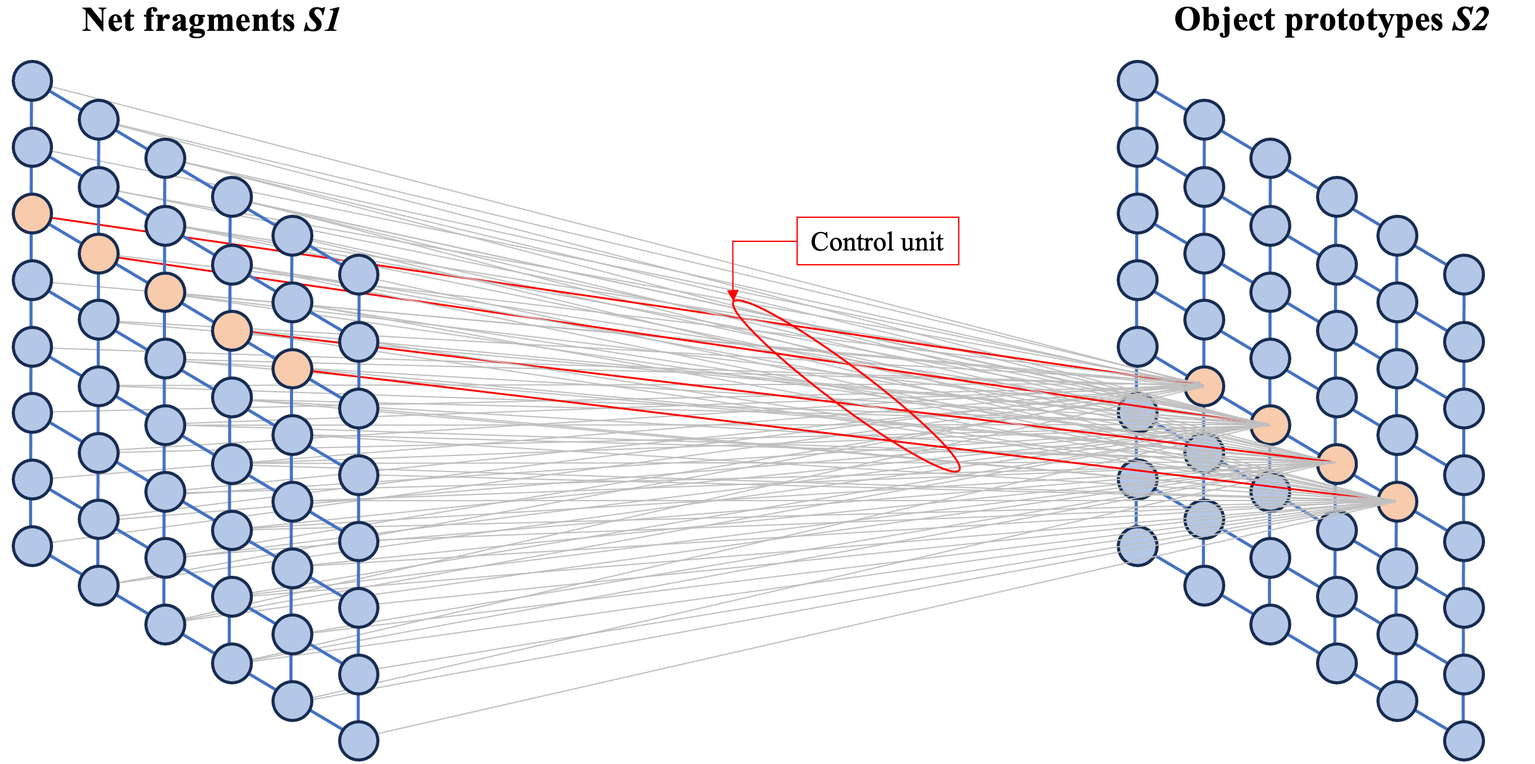
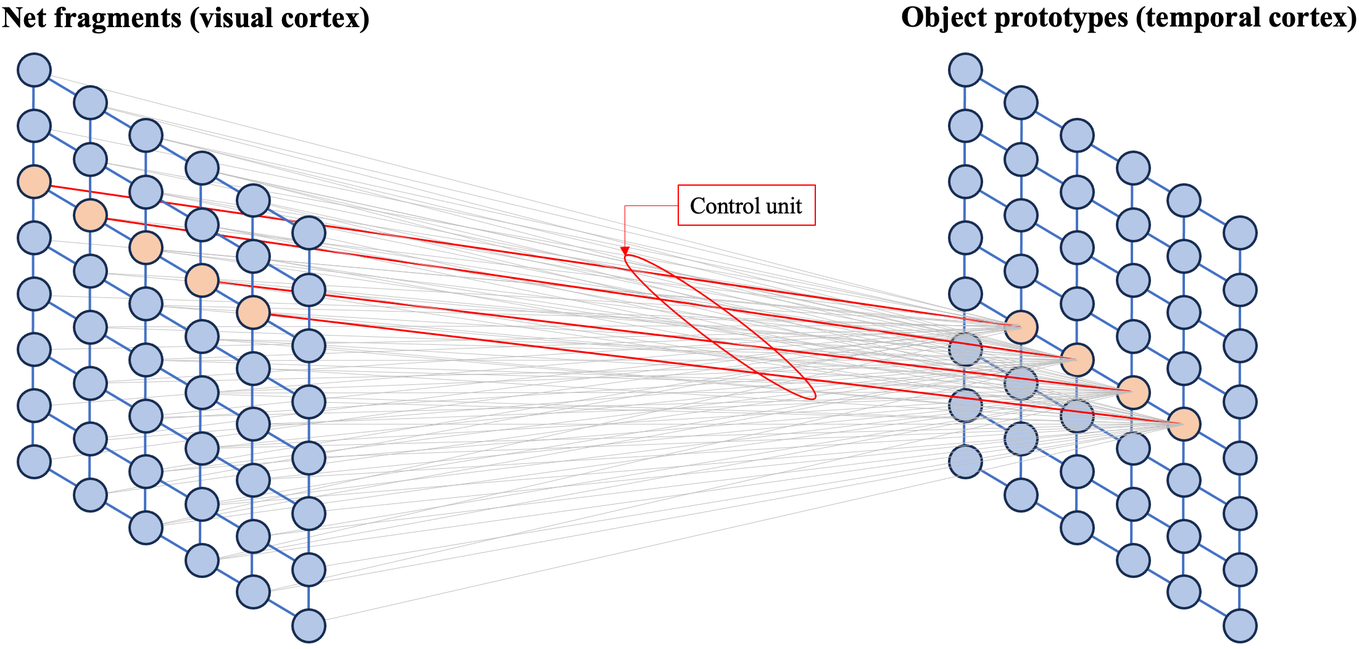
Updates from Overleaf

Changed region(s): [[0.0, 0.0, 1.0, 1.0]]

diff --git a/tex/biological_inspiration.tex b/tex/biological_inspiration.tex
@@ -1,5 +1,5 @@
 As described in \secref{intro_motivation}, deep networks suffer from early commitment.
-However, the \emph{Gestalt} psychology \cite{ellis_source_1938, kohler_gestalt_1992, wagemans_century_2012, hamlyn_psychology_2017}, as well as the theory of natural intelligence \cite{von_der_malsburg_theory_2022} and work based on self-organising projection fibres (c.f. \secref{projection_fibres}) considers the principle of preventing early commitment as a core mechanism for the effectiveness of the human visual system.
+However, the \emph{Gestalt} psychology \cite{ellis_source_1938, kohler_gestalt_1992, wagemans_century_2012, hamlyn_psychology_2017}, as well as the theory of natural intelligence \cite{von_der_malsburg_theory_2022} and work based on self-organising projection fibres \cite{bienenstock_neural_1987, lades_distortion_1993, wiskott_face_1996, fernandes_self-organization_2015} considers the principle of preventing early commitment as a core mechanism for the effectiveness of the human visual system.
 
 The human brain can prevent early commitment while still being an excellent image-processing system. 
 Consequently, the neuroscientific literature is studied, and promising findings to implement a vision framework preventing early commitment are identified.
@@ -24,10 +24,12 @@ Finally, \secref{biologial_inspiration_vision} describes the vision of how these
 The visual system of humans is visualised in \figref{visual_system}. The eyes function as sensors that capture light waves and translate them into electrical pulses. This electrical signal travels through the human brain to the primary visual cortex \sidecite{tong_primary_2003, grill-spector_human_2004}, located at the back of the head.
 Cells within the visual cortex fire spikes when specific visual stimuli appear within their receptive fields. Thus, these cells can be considered filters that are excited if a known pattern is detected in the input data. 
 
-However, the visual cortex only detects patterns in visual data but does not draw conclusions from it. Instead, it forwards it as an information stream to other brain areas. In this thesis, especially the ventral visual stream is of importance. This stream forwards the detected patterns to the temporal cortex \sidecite{miyashita_inferior_1993, conway_organization_2018}, a brain region located behind the ears.
-According to the two-stream hypothesis \sidecite{goodale_separate_1992}, the temporal cortex is responsible for object identification and recognition. A second stream, the dorsal stream, forwards the same data to the parietal cortex, a region on top of the head that predicts the object's spatial location relative to the viewer \sidecite{colby_space_1999}. However, this stream is of less importance in this thesis.
+However, the visual cortex only detects patterns in visual data but does not draw conclusions from it. Instead, it forwards it as an information stream to other brain areas. In this thesis, especially the ventral visual stream \sidecite{goodale_separate_1992} is of importance. This stream forwards the detected patterns to the temporal cortex \sidecite{miyashita_inferior_1993, conway_organization_2018}, a brain region located behind the ears.
+According to the two-stream hypothesis \cite{goodale_separate_1992}, the temporal cortex is responsible for object identification and recognition.
+Thus, the visual cortex detects local patterns that are compared with object prototypes stored in the temporal cortex.
+A second stream, the dorsal stream \cite{goodale_separate_1992}, forwards the same data to the parietal cortex, a region on top of the head that predicts the object's spatial location relative to the viewer \sidecite{colby_space_1999}. However, this stream is of less importance in this thesis.
 
-The brain implements this behaviour using net fragments, lateral connections, and projection fibres. These fundamental elements of the brain serve as inspiration for the proposed framework and are introduced in the following.
+The brain leverages net fragments, lateral connections, and projection fibres to process images. These fundamental elements of the brain serve as inspiration for the proposed framework and are introduced in the following.
 
 \begin{figure}[h]
     \centering
@@ -55,13 +57,13 @@ Notably, such a neuron not only establishes connections to neurons in the preced
 
 According to \sideciteay{von_der_malsburg_theory_2022}, these lateral connections are used for \emph{lateral support}. ``Lateral support'' means that neurons from the same layer support each other's activity:
 Neurons from the preceding layer can activate the red cell in \figref{lateral_connections} through the orange connections.
-However, inhibitory signals can suppress the activity of the red neuron before it has a chance to fire a spike to the subsequent layer via the green connections. The neuron can only transmit a spike to the subsequent layers if it ``survives'' an inhibition phase \cite{coombs_specific_1955}, which is only possible if it receives sufficient lateral support from laterally connected neurons.
+However, inhibitory signals can suppress the activity \sidecite{coombs_specific_1955} of the red neuron before it can fire a spike to the subsequent layer via the green connections. The neuron can only transmit a spike to the subsequent layers if it ``survives'' an inhibition phase \sidecite{vogels_inhibitory_2011}, which is only possible if it receives sufficient lateral support from laterally connected neurons.
 Suppose the preceding layer activates several neurons within the same layer as the red neuron, and these activated neurons exhibit lateral connections. In that case, they can send spikes to each other, thereby providing mutual support. This allows them to maintain their action potential and remain active during the inhibition phase.
 
 \subsection{Net Fragments}\seclbl{neuroscience_findings_net_fragments}
 Lateral connections grow between cells that are often active together \sidecite{hebb_organization_1949}.
-Since cells are often active together when they represent the same pattern, this increases lateral support between groups of neurons representing frequently occurring patterns. Such groups are called \emph{net fragments}.
-All neurons within a net fragment support each other to remain active during an inhibition phase. 
+Since cells are often active together when representing the same pattern, lateral support is increased between groups of neurons representing frequently occurring patterns \sidecite{stettler_lateral_2002}. Such groups are called \emph{net fragments}.
+All neurons within a net fragment support each other to remain active during an inhibition phase \cite{vogels_inhibitory_2011}. 
 Thus, a layer with multiple net fragments can be considered a filter: While the previous layer might activate numerous cells, only the cells with sufficient lateral support remain active. Therefore, only learned patterns survive and send a spike to the next layer.
 
 \subsubsection{Local Neighbourhood}
@@ -73,7 +75,7 @@ Thus, a layer with multiple net fragments can be considered a filter: While the 
 \end{figure}
 Net fragments represent patterns that can be distinguished between local patterns, which are spatially limited to a local area, and global patterns, which extend over larger regions of the image and might encompass the entire image.
 The number of possible patterns increases exponentially with the size of the considered patterns. Thus, local patterns occur more frequently.
-In order to learn frequently occurring patterns, the range of the lateral connections must be limited to a \emph{local neighbourhood}, similar to convolutional filters (c.f. \secref{cnns}).
+To capture frequently occurring patterns, the visual cortex limits the range of lateral connections to a \emph{local neighbourhood} \sidecite{stettler_lateral_2002, liang_interactions_2017}.
 Capturing global patterns would require exponentially more cells than if local patterns are captured. Therefore, limiting the range of lateral connections to local neighbourhoods is crucial.
 \figref{local_neighbourhood2} illustrates such limited lateral connections: The lateral connections from the red cell do not encompass the entire image but are only connected to cells that are in close proximity.
 
@@ -82,29 +84,26 @@ The primary visual cortex captures the input signal with a high local variance a
 
 \subsubsection{Hierarchy of Net Fragments}
 A single cell is supported by its neighbouring cells, which, in turn, are supported by their neighbouring cells. Therefore, the support reaches much further than only the local neighbourhood.
-As the processing progresses, increasing inhibition causes cells without sufficient support to be turned off. Turning off one cell can trigger a chain reaction of further turn-offs. Therefore, lateral support occurs not only between individual cells but also between many overlapping net fragments.
+As the processing progresses, increasing inhibition causes cells without sufficient support to be turned off. Turning off one cell can trigger a chain reaction of further turn-offs. Therefore, lateral support occurs not only between individual cells but also between many overlapping net fragments \sidecite{von_der_malsburg_theory_2022}.
 
 Thus, the network consists of a hierarchy of net fragments, which can be interpreted as a larger net fragment, i.e. a multitude of cells supporting each other.
 The size of a net fragment cannot be defined; the smallest possible net fragment is a single cell with its local neighbourhood, while the largest net fragment can span all active cells that are laterally connected.
+Therefore, a single layer represents local and global features at the same time, whereby local features are stored in smaller net fragments and global features in larger net fragments \cite{von_der_malsburg_theory_2022}.
 
 \subsubsection{Alternative Cells and Pathways}\seclbl{neuroscience_findings_alt_cells}
 In a given spatial location, different patterns can occur.
 However, the capacity of a net fragment is limited to represent a single pattern.
 For example, cell $A$ may often fire with cells $B$ and $C$ in close proximity, exhibiting a high mutual lateral support with these cells.
-However, cells $B$ and $C$ might not fire together. Consequently, cell $A$ is involved in two distinct and mutually exclusive net fragments, once together with cell $B$ and once with cell $C$.
+However, cells $B$ and $C$ might not fire together. Consequently, cell $A$ is involved in two distinct and mutually exclusive net fragments, once with cell $B$ and once with cell $C$.
 To facilitate such coexistence between net fragments, \emph{alternative cells} are required. A copy of cell $A$ must exist that behaves similarly but has different synaptic connections, i.e. exhibits \emph{alternative pathways}.
-The precise biological mechanism of how this is implemented is unclear; One hypothesis is that within a group of cells that initially have similar afferent connections, cells undergo divergent connectivity changes during training, resulting in cells specialising in different patterns. This process allows to split a cell at the same spatial location and enables the formation of alternative and mutually exclusive net fragments.
-
-\subsection{Local Learning Principle}\seclbl{neuroscience_findings_local_learning_principle}
-In the brain, consistency is evaluated at the level of individual synapses in every single point in the network \sidecite{hebb_organization_1949}. Each synapse is established if the firing of its source neuron and its target neuron are consistent, allowing the source neuron to predict the activity of the target neuron. This process is crucial for establishing net structures, where each neuron within a net fragment can predict the firing of other neurons with a high probability.
-This local learning is a key difference between natural (animal or human) learning and the frequently used backpropagation of error \sidecite{rosenblatt_principles_1962, linnainmaa_taylor_1976}. With backpropagation, consistency is optimised at a single point, specifically between the system's output and a teacher signal. All synapses, including those that are distantly connected (the ``deep'' connections), are guided by the consistency of this single point. Therefore, the human brain is dominated by local learning and self-organisation, while deep networks typically use a global learning rule that guides the learning process of the entire network.
+The precise biological mechanism of how this is implemented is unclear; One hypothesis is that within a group of cells that initially have similar afferent connections, cells undergo divergent connectivity changes during training, resulting in cells specialising in different patterns. Thus, multiple similar feature cells could exist at the same spatial location and enable the formation of alternative and mutually exclusive net fragments.
 
 
 \subsection{Projection Fibres}\seclbl{neuroscience_findings_projection_fibres}
 \begin{figure}[h]
     \centering
     \includegraphics[width=0.99\textwidth]{maplets}
-    \caption[An active maplet mapping net fragments to object prototypes]{Net fragments (on the left) are projected to an object (on the right). Many projection fibres (grey) run between the net fragments and objects, but only a few of them belonging to the same maplet (red) have been turned on.}
+    \caption[An active maplet mapping net fragments to object prototypes]{Net fragments (on the left) are projected to an object (on the right). Many projection fibres (grey) run between the net fragments and objects, but only a few belonging to the same maplet (red) have been turned on.}
     \figlbl{maplets}
 \end{figure}
 %
@@ -116,9 +115,9 @@ Projection fibres are links between neurons in the visual cortex and object prot
 
 Object prototypes in the temporal cortex are net fragments similar to those in the visual cortex. However, the fragments in the visual cortex are an overlay of multiple fragments between cells activated by the eyes.
 This overlay of fragments is a description of a captured visual scene, whereby it is unclear which sub-fragments represent distinct objects and how they are related.
-On the other hand, the fragments in the temporal cortex depict exactly one single object, whereby these objects are position and transformation-invariant.
+On the other hand, the fragments in the temporal cortex depict exactly one object, whereby these objects are position and transformation-invariant.
 
-Projection fibres map neurons within the captured scene (in the primary visual cortex) to object prototypes (in the temporal cortex) with one-to-one connections \sidecite{anderson_shifter_1987}, where pairs of neurons connected in the visual cortex project to pairs of neurons connected in the temporal cortex. The projection fibres have some flexibility, allowing for local distortions and enabling transformation- and position-invariant mapping \sidecite{wolfrum_recurrent_2008, wiskott_face_1996}. This mapping allows the recognition of one or more objects in a scene and their relationships to each other, facilitating object recognition and scene interpretation.
+Projection fibres map neurons within the captured scene (in the primary visual cortex) to object prototypes (in the temporal cortex) with one-to-one connections \sidecite{anderson_shifter_1987}, where pairs of neurons connected in the visual cortex project to pairs of neurons connected in the temporal cortex in a topological manner. The projection fibres have some flexibility, allowing for local distortions and enabling transformation- and position-invariant mapping \sidecite{wolfrum_recurrent_2008, wiskott_face_1996}. This mapping allows the recognition of one or more objects in a scene and their relationships to each other, facilitating object recognition and scene interpretation.
 
 \subsubsection{Maplets and Control Units}
 Each existing neuron in the visual cortex has projection fibres running to the temporal cortex. Consequently, there is a multitude of projection fibres, but only a fraction are active at any given time.
@@ -134,39 +133,52 @@ Please note that the line on the left is translated and stretched. However, the 
 
 Projection fibres thus provide generalisation, i.e. different, transformed versions of an object are recognised and mapped to a reference frame. This explains the ability of humans to see a new object once and immediately recognise it in a transformed version.
 
-\section{Objective}\seclbl{biologial_inspiration_vision}
-The aforementioned neuroscientific findings serve as the foundation to build a novel image-processing framework.
-The core behind this framework is based on two stages and projection fibres connecting them.
-The first stage builds net fragments reassembling a visual scene captured with a sensory system (the eyes). The lateral reach within this stage is limited since many pattern combinations can be experienced in the real world. However, scenes are dominated by locally similar-looking patterns that can be captured with net fragments.
+
+\subsection{Local Learning Principle}\seclbl{neuroscience_findings_local_learning_principle}
+In the brain, consistency is evaluated at the level of individual synapses in every single point in the network \sidecite{hebb_organization_1949}. Each synapse is established if the firing of its source neuron and its target neuron are consistent, allowing the source neuron to predict the activity of the target neuron. This process is crucial for establishing net structures, where each neuron within a net fragment can predict the firing of other neurons with a high probability \sidecite{widrow_natures_2019}.
+
+Such consistency is built between cells within the same layer connected with lateral connections and between cells in different brain regions connected by projection fibres.
+Building consistency means that the cells reach a consensus on what they represent: Features trigger cells belonging to specific net fragments and only remain active if other cells contribute to the same fragment and provide mutual support. Cells that do not receive sufficient support are deactivated by inhibition \sidecite{vogels_inhibitory_2011}
+Thus, cells agree on which net fragments (which features) are present in the input in a self-organising manner.
+Consistency is achieved similarly between cells connected through projection fibres: Initially, many hypotheses (mappings) are considered, but after increasing inhibition, only the mapping receiving the most cell support remains active.
+Thus, every active cell votes for net fragments and either remains active or is deactivated by inhibition until the entire network becomes consistent.
+
+This local learning is a key difference between natural (animal or human) learning and the frequently used backpropagation of error \sidecite{rosenblatt_principles_1962, linnainmaa_taylor_1976}. With backpropagation, consistency is optimised at a single point, specifically between the system's output and a teacher signal. All synapses, including those that are distantly connected (the ``deep'' connections), are guided by the consistency of this single point. Therefore, the human brain is dominated by local learning and self-organisation, while deep networks typically use a global learning rule that guides the learning process of the entire network.
+
+
+\section{Computational Framework: A Vision}\seclbl{biologial_inspiration_vision}
+The aforementioned neuroscientific findings serve as the foundation for building a novel image-processing framework.
+The core behind this framework is based on two stages (representing the visual and temporal cortex) and projection fibres connecting them.
+The first stage builds net fragments using lateral connections, reassembling a visual scene captured with a sensory system (the eyes).
 The second stage contains not entire visual scenes but reference frames representing specific objects. These objects are centred and transformation-invariant and can thus afford longer-reaching lateral connections.
 Multiple 2D reference frames must exist for each object to represent an object from various viewpoints.
 
 Projection fibres connect these two stages, mapping objects within a visual scene to object prototypes.
 This mapping serves as a scene interpretation layer by describing which objects are located where in the observed scene.
-In the next \chref{probabilistic_framework}, a framework is proposed that implements these two stages with projection fibres.
+In \chref{probabilistic_framework}, a framework is proposed that implements these two stages with projection fibres.
 It is considered a computational implementation of the foundation of the biological visual system.
 However, in the long term, this framework can be further expanded and is not limited to these two stages, thereby leading to a highly efficient scene processing system.
 These extensions are discussed in the following.
 
 \subsection{Object Classification}
 A classification layer maps an object to a specific instance, for example, a person, to a person's name. Projection fibres do not provide such a classification as these fibres map the pattern to a more generalised view, i.e. transforming a person to a reference person. Instead, a subsequent memory stage is needed to map a reference object to an actual label.
-This memory stage contains multiple instances for each object and provides distinction between objects. The memory stage implements an n-to-n mapping to the reference frame: Each reference frame has multiple instances (e.g. multiple persons exist), and each instance can belong to multiple reference frames (e.g. a face and a body could be different reference frames but belong to the same instance).
+This memory stage contains multiple instances for each object and provides distinction between objects. The memory stage implements an $n$-to-$n$ mapping to the reference frame: Each reference frame has multiple instances (e.g. multiple persons exist), and each instance can belong to multiple reference frames (e.g. a face and a body could be different reference frames but belong to the same instance).
 
 The human brain has cells representing instances of objects \sidecite{gross_genealogy_2002}.
 Therefore, memory is assumed to consist of one or a few cells, while reference frames consist of many cells.
-This allows to store many object instances while not requiring a vast number of cells.
+This allows storing and distinguishing many object instances while not requiring a vast number of cells.
 
 
 \subsection{Scene Interpretation}
-On a very abstract level, I envision the mapping process as having a big canvas with the observed visual scene in the middle and arrows going away from each object in the image and pointing to the corresponding prototype. Thus, the projection fibres (the arrows) implement object segmentation and identification.
-In addition, the position of each object is known, as well as the differences in position between the objects.
-Such a canvas provides a mental description of a perceived scene. However, such a description is not sufficient to interpret a scene. For scene interpretation, all objects in the scene must be put into context.
+On a very abstract level, I envision the mapping process implemented by projection fibres as having a big canvas with the observed visual scene in the middle and arrows going away from each object in the image and pointing to the corresponding prototype. Thus, the projection fibres (the arrows) implement object segmentation and identification.
+In addition, the position of each object is known, as well as the relative differences in position between the objects.
+Such a canvas provides a mental description of a perceived scene. However, having a description is not sufficient to interpret a scene. For scene interpretation, all objects in the scene must be put into context.
 
-As described in \secref{neuroscience_findings_local_learning_principle}, the human brain optimises consistency at every point in the network: Consistency is optimised between the cells within the two stages to build net fragments and between the projection fibres connection net fragments to obtain a valid mapping.
-However, building consistency between these two stages is not enough to interpret visual scenes.
-
-In the long term, more components must be added, allowing to build consistency between memories and reference frames.
+As described in \secref{neuroscience_findings_local_learning_principle}, consistency is optimised between the cells within the two stages to build net fragments and between the projection fibres connecting net fragments.
+In the long term, more components must be added, allowing to build consistency between memories and reference frames as well.
 For instance, projection fibres could map one object in the scene to a person while mapping another object in close spatial proximity of this person's foot to a ball. By building consistency between these two objects, one could conclude that this person is most likely playing football (soccer). Synaptic connections between these references could be formed if such scenes are observed several times, allowing for scene interpretation.
+Thus, observing people touching a ball with their feet corresponds to a pattern that the system observes, characterised by the simultaneous activity of the corresponding net fragments. By integrating this activity with relative positions and applying Hebbian updates, the network learns this pattern corresponding to football. 
+After the pattern has been learned, cells can vote for it and consistency can be reached if an observed scene corresponds to playing football or not.
 Furthermore, memories could be integrated that either confirms or rejects this hypothesis. If, for example, the person is identified as a soccer player such as Ronaldo, it would further strengthen this hypothesis.
 
 Such a system could learn interpretations of visual scenes and might even have the potential to understand how objects are related to each other. A pivotal difference to deep networks is that the model can build such consistency on its own, while deep learning systems require a teaching signal to learn consistency.
@@ -174,23 +186,23 @@ I speculate that having a system that can build consistency of completely unseen
 
 
 \subsection{Preventing Early Commitment}\seclbl{biologial_inspiration_early_commitment}
-As described in the previous section, deep learning models are prone to early commitment \sidecite{marr_vision_2010}.
+As described in the \secref{intro_motivation}, deep learning models are prone to early commitment \sidecite{marr_vision_2010}.
 The brain's solution to prevent early commitment are net fragments.
 A single layer with lateral connections that forms net fragments can represent local and global features at the same time\sidenote{This way of thinking about features can be hard to comprehend, especially for computer scientists familiar with deep learning.}.
-Each set of active and laterally connected neurons can be considered a net fragment. Net fragments with a few cells depict local features, while fragments containing many features represent more global features.
+Each set of active and laterally connected neurons can be considered a net fragment. Net fragments with few cells depict local features, while fragments containing many features represent more global features.
 
 A system that avoids the fallacy of early commitment should solve the conundrum that local decisions are taken based on plausibility in the light of high-level patterns, while high-level patterns can only be defined based on low-level features.
 The most fundamental local decision is whether a single cell should be active. Since a single cell receives support from all laterally connected cells, a high-level pattern (i.e. the activity of all directly or indirectly laterally connected cells) is used to make this decision. Therefore, local decisions are taken based on high-level patterns. The high-level pattern used to make this decision is defined by the sum of individual cells (i.e. low-level features). Hence, the human brain solves the conundrum within every single layer.
 
 
-\subsection{Hierarchical Features}
+\subsubsection{Hierarchical Features}
 Neuroscientific findings indicate that the human brain does not rely on a sequence of layers to build feature hierarchies as often done in deep networks.
 In the biological context, layers have other connotations, and evidence suggests that layers in cortical columns deal with depth rotations \sidecite{iamshchinina_perceived_2021}.
 In the proposed framework, feature hierarchies are implicitly stored in net fragments whereby a larger fragment represents a more global feature, and smaller fragments have more local features.
 Consequently, sequences of layers are not necessary to represent feature hierarchies.
 
 However, multiple stages are required to build abstractions of input signals, i.e. to generalise features.
-In the human brain, several regions interact with each other to generate abstractions \sidecite{felleman_distributed_1991}.
+In the human brain, several regions interact to generate abstractions \sidecite{felleman_distributed_1991}.
 In fact, the visual cortex builds net fragments based on the signal from the eyes, projection fibres map the object to prototypes, and other fibres map the prototypes to memories and interpret them. Thus, various stages are involved in processing images.
-Furthermore, processing takes place over a short amount of time until all stages reach a consensus. Thus, no layer-wise processing is required as in deep, but multiple stages interact with each other to build feature abstractions.
+Furthermore, processing takes place quickly until all stages reach a consensus. Thus, no layer-wise processing is required as in deep learning, but multiple stages interact with each other to build feature abstractions.
 

diff --git a/tex/related_work.tex b/tex/related_work.tex
@@ -214,10 +214,10 @@ Each layer receives input from such a buffer instead of the previous layer, elim
 
 Proxy objective functions are the only known alternative to backpropagation of error that scales well to large neural networks and large datasets \sidecite{bartunov_assessing_2018, duan_modularizing_2022}.
 However, training is typically slower than end-to-end backpropagation, even with synchronous or asynchronous training strategies  \cite{belilovsky_decoupled_2020}.
-In addition, layer-by-layer training of a network for the sole purpose of biological plausibility using the same loss function as the global objective function seems unnecessary. Instead, a more promising approach might be to train layers in parallel and use a voting mechanism to reach a consensus and realise the full potential of proxy objective functions. However, such strategies have not yet been explored.
+In addition, layer-by-layer training of a network for the sole purpose of biological plausibility using the same loss function as the global objective function seems unnecessary.
 
 \paragraph{Forward Forward Algorithm.}
-Recently, Hinton \sidecite{hinton_forward-forward_2022} introduced the \emph{forward-forward (FF) algorithm}, which is considered a special instance of proxy objective functions.
+Recently, Hinton \sidecite{hinton_forward-forward_2022} introduced the forward-forward \emph{(FF)} algorithm, which is considered a special instance of proxy objective functions.
 This algorithm uses two forward passes, one with positive (i.e. real) data and one with negative data.
 Positive data consists of an input vector and the correct label, and negative data consists of an input vector with the wrong label.
 Each layer has its objective function that aims to have a high ``goodness'' for positive data and a low ``goodness'' for negative data. 
@@ -227,9 +227,9 @@ During inference, the data is fed with each label through the network, and the o
 The same input is fed into the model over multiple timesteps to obtain hierarchical features \sidecite{hinton_how_2021}.
 The trick is to feed the input into the network from one side and the label into the network from the other. A layer receives as input the activity vector of the previous layer and the activity vector of the subsequent layer at the previous timestep. By enforcing high goodness when the input and label match, information must flow in both directions. Thus, hierarchical features can be learned without a backward pass.
 
-The FF algorithm did not yet scale to large datasets. Furthermore, inference is very slow for datasets with many labels, as each sample is compared with all existing labels. Overall, feeding specific information (e.g. images) into one end of the network and general information (e.g. labels) into the other end and effectively merging these inputs to extract hierarchical features seems very promising.
+The FF algorithm did not yet scale to large datasets. Furthermore, inference is very slow for datasets with many labels, as each sample is compared with all existing labels. However, feeding specific information (e.g. images) into one end of the network and general information (e.g. labels) into the other end and effectively merging these inputs to extract hierarchical features seems very promising.
 
-\paragraph{Target Propagation.} \emph{Target propagation} methods compute targets\sidenote{A target can be interpreted as the value that a layer should predict.} rather than gradients at each layer \sidecite{bengio_how_2014, appice_difference_2015, meulemans_theoretical_2020}.
+\paragraph{Target Propagation.} Target propagation methods compute targets\sidenote{A target can be interpreted as the value a layer should predict.} rather than gradients at each layer \sidecite{bengio_how_2014, appice_difference_2015, meulemans_theoretical_2020}.
 Each layer is trained to minimise the difference between its activations and its received target values.
 In the context of target propagation, each layer is considered an encoder that maps its input to an output. Besides an encoder, a decoder is trained per layer, implementing the inverse mapping from the layers' output to its input.
 During a forward pass, an input vector $\boldsymbol{x}$ is fed through all encoders to obtain a prediction $\boldsymbol{\hat{y}}$. For the backward pass, the target value $\boldsymbol{y}$ is fed through all decodes to obtain a target per layer\sidenote{If each layer would predict this target, the output would be $\boldsymbol{y}$.}.
@@ -241,8 +241,8 @@ Furthermore, this approach does not scale well in praxis as the decoder cannot p
 Thus, the learning process is rather unstable as the target is approximated per layer and might steer the learning process in the wrong direction.
 
 
-\paragraph{Synthetic Gradients.} \emph{Synthetic gradients} methods \sidecite{jaderberg_decoupled_2017, czarnecki_understanding_2017} replace the gradients of backward passes with approximated local gradients, estimated with auxiliary models, and utilise gradient-based optimisation algorithms such as stochastic gradient descent to update the weights locally.
-The auxiliary models are usually fully-connected networks that are trained to regress a layer's gradients when given the layer's activations.
+\paragraph{Synthetic Gradients.} Synthetic gradients methods \sidecite{jaderberg_decoupled_2017, czarnecki_understanding_2017} replace the gradients of backward passes with approximated local gradients, estimated with auxiliary models, and utilise gradient-based optimisation algorithms such as stochastic gradient descent to update the weights locally.
+The auxiliary models are usually fully-connected networks trained to regress a layer's gradients when given the layer's activations.
 End-to-end backward passes are only performed occasionally to acquire actual gradients that can be used to train the gradient approximation models.
 Thus, the frequency of end-to-end backward passes is reduced.
 When additional auxiliary input models are used to predict the layer's input, the frequency of the forward pass can also be reduced in the same manner as for the backward pass \cite{jaderberg_decoupled_2017}.
@@ -251,7 +251,7 @@ It is also possible to eliminate the backward pass by training the auxiliary gra
 However, the synthetic gradients method works significantly worse than when actual gradients are used to train auxiliary models.
 An advantage of synthetic gradient methods is that they can approximate backpropagation through time (BTT) for unlimited timesteps \cite{jaderberg_decoupled_2017}.
 
-\paragraph{Feedback Alignment.} \emph{Feedback alignment} algorithms use fixed, random weights during the backward pass \sidecite{lillicrap_random_2016}.
+\paragraph{Feedback Alignment.} Feedback alignment algorithms use fixed, random weights during the backward pass \sidecite{lillicrap_random_2016}.
 The gradients are calculated similarly to stochastic gradient descent but with random weights.
 Thus the symmetry between the weights used during the forward and the backward pass is broken.
 The network still learns to make the feedback useful even though the weights during forward and backward passes are different. 

diff --git a/tex/probabilistic_framework.tex b/tex/probabilistic_framework.tex
@@ -23,7 +23,7 @@ These three building blocks are described in the following before they are put i
     \figlbl{system_overview}
 \end{figure}
 
-\figref{system_overview} provides an overview of the building blocks of the proposed framework. After the sensory stage extracted features and some initial net fragments have been built in \emph{S1}, an inhibition phase lasting multiple additional timesteps turns off cells that do not receive sufficient lateral support. Furthermore, the project fibres between \emph{S1} and \emph{S2} run in both directions, not only mapping net fragments to reference frames but also providing feedback to \emph{S1} in the form of additional support for well-known objects.
+\figref{system_overview} provides an overview of the building blocks of the proposed framework. After the sensory stage extracted features and some initial net fragments have been built in \emph{S1}, an inhibition phase \sidecite{coombs_specific_1955} lasting multiple additional timesteps turns off cells that do not receive sufficient lateral support. Furthermore, the project fibres between \emph{S1} and \emph{S2} run in both directions, not only mapping net fragments to reference frames but also providing feedback to \emph{S1} in the form of additional support for well-known objects.
 
 \paragraph{Sensors System \emph{S0}.} A typical input to the sensory stage is an image having one (grey-scale) or three (RGB) colour channels. Therefore, such an image can be interpreted as having one or three features at every spatial location.
 The sensory system extracts multiple features by considering a spatial neighbourhood, thereby increasing the number of features.
